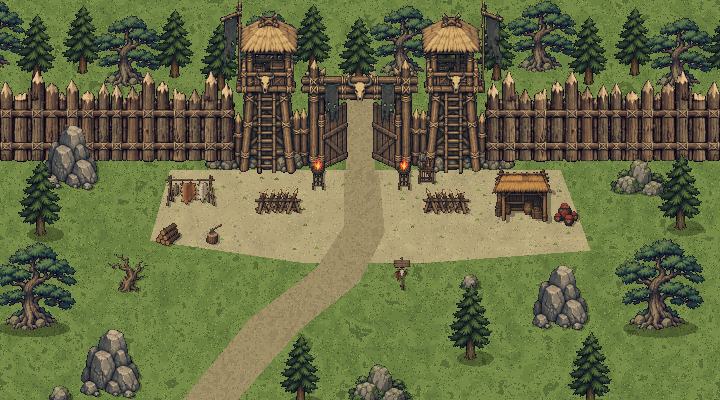
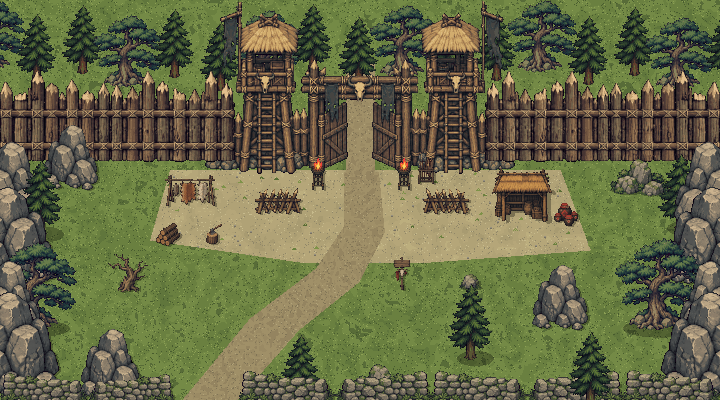
Align Black Wind Fortress terrain, blockers, and boss aftermath

Changed region(s): [[0.3056, 0.36, 1.0, 1.0], [0.0, 0.36, 0.2444, 1.0]]

diff --git a/js/story.js b/js/story.js
@@ -211,7 +211,7 @@ SC.ferry={name:'东津渡',bg:'m_ferry_v2',start:[1.65,25],startDir:'r',gw:60,gh
 SC.bgate={name:'黑风寨 · 寨门',bg:'m_bgate_v2',start:[15.9,28.05],startDir:'u',gw:54,gh:30,mapv:1,mapIn:[15.9,28.05],walk:[[1,11,52,29]],block:[],region:'bandit',tint:'rgba(0,10,30,.18)',
   migrate(x,y){return nearMap(x,y,[[12,24.5,15.9,28.05],[24,15,27.15,15.6],[8,21,11.6,22.4],[30,20,30,20],[20,17,22,17.5]])},
   // 寨门判定（01 §5.5 / §5.3 #16）：暗号+令牌 → 放行；只有令牌 → 放行；只有暗号 → "令牌呢？"硬闯；都没有 → 硬闯（守寨喽啰×2 + 寨犬×2）
-  npcs:[{id:'guard',name:'守寨喽啰',sp:'c_bandit',x:28.8,y:14.7,dir:'d',mark:()=>1,show:()=>!hasFlag('gate_pass'),async act(n){
+  npcs:[{id:'guard',name:'守寨喽啰',sp:'c_bandit',x:28.8,y:14.7,dir:'d',mark:()=>1,show:()=>!hasFlag('gate_pass')&&!hasFlag('chief_dead'),async act(n){
       await talk(n,'站住！什么人？！');
       const code=bfCode(),tok=!!S.bag.token,opts=[];
       if(code)opts.push('“风起云涌，自己人。”');if(tok)opts.push('亮出黑风令牌');opts.push('硬闯！');
@@ -222,7 +222,7 @@ SC.bgate={name:'黑风寨 · 寨门',bg:'m_bgate_v2',start:[15.9,28.05],startDir
       else if(o==='亮出黑风令牌'){await talk(n,'……浪里鳅那边的牌子？',code?'行，进去吧。':'暗号都不会对，令牌倒是真的。哼，进去吧，别乱走。');setFlag('gate_pass');return}
       const r=await battle({bg:'bg_bandit_gate',foes:[Object.assign(mk('bandit'),{name:'守寨喽啰',lv:5}),Object.assign(mk('bandit'),{name:'守寨喽啰',lv:5}),mk('gatedog'),mk('gatedog')]});if(r==='win')setFlag('gate_pass')}},
     digSpot('bgate1',10.8,22.5,async()=>{await narr('挖出了一坛埋着的好酒！');await giveItem('wine',2)})],
-  exits:[{r:[13,29,17,29],label:'下山 · 大地图',to:'map',dir:'d'},{r:[26,11,27,12],label:'进寨',to:'cave',at:[27,27],dir:'u',show:()=>hasFlag('gate_pass')}]};
+  exits:[{r:[13,29,17,29],label:'下山 · 大地图',to:'map',dir:'d'},{r:[26,11,27,12],label:'进寨',to:'cave',at:[27,27],dir:'u',show:()=>hasFlag('gate_pass')||hasFlag('chief_dead')}]};
 
 // v2（2026-09 S1，docs/design/02 §4.7）：54×30 格。北壁正中虎皮交椅高台（头目站位，台前空场作头目战区域），西聚饮长桌，东赃物 + 账桌 + 山川图，西南洞角巨蟒守箱，下方正中洞口
 SC.cave={name:'黑风寨 · 山洞',bg:'m_cave_v2',start:[27,27],startDir:'u',gw:54,gh:30,mapv:1,walk:[[1,9,52,29]],block:[],region:'bandit',tint:'rgba(0,0,0,.15)',
@@ -529,8 +529,8 @@ Object.assign(SC.bgate,{
   lights:[[954,500,220,'255,140,50',2],[1212,500,220,'255,140,50',2],[1566,610,110,'255,160,80',.6]],
   fx(){embers(954,490);embers(1212,490);smokeAt(954,470)},
   extras:[
-    {sp:'bandit',mode:'stand',x:36.6,y:17.4,dir:'l',show:()=>!hasFlag('gate_pass'),barks:['这火盆再不添柴就灭了。','大当家今晚又要喝酒。']},
-    {sp:'bandit',mode:'patrol',pts:[[18,15.8],[24,16.2],[18,15.8],[14,17]],show:()=>!hasFlag('gate_pass'),barks:['哪来的毛头小子？滚远点！','渡口那批货，油水不少。']}]});
+    {sp:'bandit',mode:'stand',x:36.6,y:17.4,dir:'l',show:()=>!hasFlag('gate_pass')&&!hasFlag('chief_dead'),barks:['这火盆再不添柴就灭了。','大当家今晚又要喝酒。']},
+    {sp:'bandit',mode:'patrol',pts:[[18,15.8],[24,16.2],[18,15.8],[14,17]],show:()=>!hasFlag('gate_pass')&&!hasFlag('chief_dead'),barks:['哪来的毛头小子？滚远点！','渡口那批货，油水不少。']}]});
 Object.assign(SC.cave,{
   // v2（02 §4.7）：交椅两侧火盆是主光源，洞口透进一点月光；喽啰在西边长桌喝酒、东边看着赃物
   dark:'rgba(0,0,6,.58)',tint:null,dust:true,dustC:'rgba(160,140,110,.45)',heroLight:170,
@@ -804,12 +804,12 @@ Object.assign(SC.gate,{gw:60,gh:36,bg:'m_gate_v2',propImg:'m_gate_v2_props',prop
 // </scene:gate>
 
 // <scene:bgate> 由 tools_scene/build_scene.py 生成，勿手改
[1 lines of base64/hex data omitted]
-  props:[[0,0,310,174,615,0,462],[311,0,400,92,-495,210,486],[0,175,400,92,1455,210,486],[247,268,14,32,933,474,570],[262,268,14,32,1191,474,570],[345,268,46,26,765,564,642],[392,268,46,26,1269,564,642],[277,268,16,31,1254,459,552],[0,268,60,53,1476,507,666],[439,268,24,23,1662,609,678],[294,268,50,31,495,525,618],[489,268,16,20,618,672,732],[464,268,24,23,468,669,738],[230,268,16,33,1182,771,870],[126,268,42,39,321,759,876],[579,175,44,76,54,480,708],[861,175,56,65,126,375,570],[492,175,86,88,-27,726,990],[759,175,60,69,240,987,1194],[624,175,44,76,1974,462,690],[169,268,60,37,1830,477,588],[401,175,90,92,1845,714,990],[918,175,56,65,1596,795,990],[669,175,44,76,1344,852,1080],[61,268,64,40,1044,1092,1212],[820,175,40,69,840,1005,1212],[533,268,22,16,1377,822,870],[714,175,44,76,1704,996,1224],[506,268,26,19,141,1155,1212]]});
[1 lines of base64/hex data omitted]
+  props:[[0,0,310,174,615,0,462],[0,175,400,92,-495,210,486],[401,175,400,92,1455,210,486],[405,357,14,32,933,474,570],[420,357,14,32,1191,474,570],[679,357,46,26,765,564,642],[726,357,46,26,1269,564,642],[435,357,16,31,1254,459,552],[692,268,60,53,1476,507,666],[773,357,24,23,1662,609,678],[452,357,50,31,495,525,618],[823,357,16,20,618,672,732],[798,357,24,23,468,669,738],[0,357,16,33,1182,771,870],[818,268,42,39,321,759,876],[296,268,44,76,54,480,708],[578,268,56,65,126,375,570],[893,175,86,88,-27,726,990],[476,268,60,69,240,987,1194],[341,268,44,76,1974,462,690],[861,268,60,37,1830,477,588],[802,175,90,92,1845,714,990],[635,268,56,65,1596,795,990],[386,268,44,76,1344,852,1080],[753,268,64,40,1044,1092,1212],[537,268,40,69,840,1005,1212],[867,357,22,16,1377,822,870],[431,268,44,76,1704,996,1224],[840,357,26,19,141,1155,1212],[0,268,76,88,-90,426,690],[497,0,86,99,-93,561,858],[154,268,70,81,-87,783,1026],[311,0,92,106,-96,876,1194],[77,268,76,88,2022,426,690],[584,0,86,99,1995,561,858],[225,268,70,81,2037,783,1026],[404,0,92,106,1980,876,1194],[503,357,88,31,0,1119,1212],[592,357,86,30,264,1122,1212],[17,357,96,33,717,1113,1212],[114,357,96,33,1005,1113,1212],[211,357,96,33,1293,1113,1212],[308,357,96,33,1581,1113,1212],[922,268,97,34,1869,1110,1212]]});
 // </scene:bgate>
 
 // <scene:cave> 由 tools_scene/build_scene.py 生成，勿手改
[2 lines of base64/hex data omitted]
   props:[[0,0,452,122,-180,6,372],[453,0,452,122,984,6,372],[906,0,80,82,960,276,522],[275,123,22,33,843,435,534],[298,123,22,33,1251,435,534],[457,123,55,27,288,549,630],[581,123,62,22,279,642,708],[424,123,32,28,120,510,594],[513,123,30,27,585,471,552],[84,123,44,38,1602,414,528],[41,123,42,40,1821,402,522],[375,123,48,29,1518,633,720],[338,123,36,30,1824,696,786],[721,123,11,15,678,855,900],[321,123,16,31,876,963,1056],[644,123,26,19,1317,981,1038],[698,123,22,18,681,474,528],[671,123,26,19,1371,453,510],[544,123,36,25,156,819,894],[0,123,40,41,54,693,816],[240,123,34,35,303,945,1050],[129,123,36,37,774,1029,1140],[166,123,36,37,1278,1029,1140],[203,123,36,37,1986,609,720]]});
 // </scene:cave>
 

diff --git a/js/scene.js b/js/scene.js
@@ -66,7 +66,7 @@ function placeFix(){if(!S||!cur)return;const id=Object.keys(SC).find(k=>SC[k]===
   if(best){player.x=best[0];player.y=best[1]}}
 function spawnWanderers(){placeFix();cur._npcs=npcsOf(cur);wanderers=[];bubbles.length=0;ambInit();
   const list=[...(cur.crowd||[]).map(([sp,c0,r0,c1,r1])=>({sp,mode:'wander',box:[c0,r0,c1,r1]})),...(cur.extras||[]).filter(e=>!e.show||e.show())];
-  for(const e of list){const w={sp:e.sp,mode:e.mode||'wander',box:e.box,pts:e.pts,pi:0,x:0,y:0,dir:e.dir||'d',face:e.dir,walk:0,moving:false,tx:null,ty:0,
+  for(const e of list){const w={sp:e.sp,source:e,mode:e.mode||'wander',box:e.box,pts:e.pts,pi:0,x:0,y:0,dir:e.dir||'d',face:e.dir,walk:0,moving:false,tx:null,ty:0,
       wait:rnd(300,2500),ph:Math.random()*9,barks:e.barks,bt:rnd(1500,6000),step:0,
       spd:e.mode==='run'?.13:e.mode==='patrol'?.05:.06};
     if(e.x!=null){w.x=e.x*TS;w.y=e.y*TS}
@@ -180,7 +180,10 @@ function updateCam(dt){
   let tx=camC.x,ty=camC.y;if(fx-tx>DZX)tx=fx-DZX;else if(tx-fx>DZX)tx=fx+DZX;if(fy-ty>DZY)ty=fy-DZY;else if(ty-fy>DZY)ty=fy+DZY;
   const k=1-Math.exp(-dt/170);camC.x+=(tx-camC.x)*k;camC.y+=(ty-camC.y)*k;
   cam.x=clamp(camC.x-VW/2,0,WW-VW);cam.y=clamp(camC.y-VH/2,0,WH-VH)}
-function updateWanderers(dt){for(const w of wanderers){
+function updateWanderers(dt){
+  // 剧情旗标可在当前场景内改变；只移除失效的路人，不重刷其他人的站位。
+  for(let i=wanderers.length-1;i>=0;i--){const e=wanderers[i].source;if(e&&e.show&&!e.show())wanderers.splice(i,1)}
+  for(const w of wanderers){
   updBark(w,dt);
   // 站桩者：主角靠近时转头看一眼，走开后恢复原朝向
   if(w.mode==='stand'){if(w.hx==null){w.hx=w.x;w.hy=w.y}const d=Math.hypot(w.x-player.x,w.y-player.y);w.dir=d<90?faceTo(player.x-w.x,player.y-w.y):(w.face||w.dir);w.moving=false;

diff --git a/tools_scene/build_scene.py b/tools_scene/build_scene.py
@@ -1010,8 +1010,17 @@ def bgate():
                                             ('sheet_bandit_5', 590, 408, 44, 'trunk'), ('sheet_mount_7', 60, 404, 26, 'rect:0,0.4,1,1'))):
         S.place(k, x, b, w_, cx=True, fp=fp_, shadow='tree' if fp_ == 'trunk' else 'small', key='edge%d' % i)
     S.tufts(260, (0, 170, S.w, 400))
-    # ── 可走区 ──
-    S.walk_poly([(150, 176), (580, 176), (610, 250), (600, 300), (520, 330), (420, 340), (330, 330), (260, 400), (160, 400), (100, 350), (96, 270), (120, 220)])
+    # 两侧陡石坡连续收边；足迹贴石体，避免开放草坡后从左右画面外走出。
+    for side, edge in (('w', 0), ('e', 720)):
+        for i, (base, width, inset) in enumerate(((230, 76, 8), (286, 86, 12), (342, 70, 6), (398, 92, 14))):
+            x = edge + inset if side == 'w' else edge - inset
+            S.place('sheet_bandit_6', x, base, width, cx=True, flip=(i + (side == 'e')) % 2 == 1,
+                    fp='rect:0,0.25,1,1', shadow='small', key='side_rock_%s%d' % (side, i))
+    # 南坡挡土石墙：把地图下沿的边界做成实物，山道留出缺口。
+    for i, (x, w_) in enumerate(((0, 88), (88, 86), (239, 96), (335, 96), (431, 96), (527, 96), (623, 97))):
+        S.place('sheet_mount_9', x, 404, w_, flip=bool(i % 2), fp='rect:0,0.25,1,1', shadow='small', key='south_wall%d' % i)
+    # ── 可走区：整片可见草地均开放，再由寨墙、拒马、树石及南坡实体占地扣除 ──
+    S.walk_rect(0, 176, 720, 400)
     S.force_rect(op[0] + 2, 150, op[1] - 2, 178)  # 寨门门洞（出口）
     S.block_rect(0, 392, 174, 400); S.block_rect(239, 392, 720, 400)   # 下沿只留山道出口
     S.exits = [(26, 11, 27, 12), (13, 29, 17, 29)]
@@ -1065,7 +1074,7 @@ def cave():
     S.place('sheet_cave_9', 444, 380, 36, cx=True, fp='rect:0.1,0.5,0.9,1', shadow='small', key='stal_ge', flip=True)
     S.place('sheet_cave_9', 680, 240, 36, cx=True, fp='rect:0.1,0.5,0.9,1', shadow='small', key='stal_e')
     # ── 可走区 ──
-    S.walk_poly([(44, 126), (676, 126), (694, 200), (682, 286), (632, 344), (428, 366), (410, 400), (310, 400), (292, 366), (100, 346), (36, 296), (26, 200)])
+    S.walk_poly(floor)  # 岩地边界即岩壁脚；物件占地在 compose() 扣除
     S.block_rect(0, 392, 334, 400); S.block_rect(386, 392, 720, 400)   # 下沿只留洞口
     S.exits = [(25, 29, 28, 29)]
     for n, (x, y) in dict(arrive=(360, 360), chief=(360, 190), snake=(116, 304), ledger=(530, 248), hidemap=(626, 268), feast_w=(96, 244), feast_e=(156, 244), loot=(540, 196)).items(): S.anchor(n, x, y)

diff --git a/tools_scene/ground_contract.py b/tools_scene/ground_contract.py
@@ -1,0 +1,25 @@
+"""Black Wind Fortress: visible bare ground must agree with the walk mask.
+
+Run after changing map layout: python3 tools_scene/ground_contract.py
+"""
+import numpy as np
+
+from build_scene import bgate, cave
+
+
+def check(factory, material, top):
+    scene = factory()
+    scene.compose()
+    occupied = np.zeros((scene.h, scene.w), dtype=bool)
+    for item in scene.items:
+        occupied |= item['fp']
+    yy = np.arange(scene.h)[:, None]
+    bare = (scene.mat == material) & ~occupied & (yy >= top) & (yy < 392)
+    blocked = bare & ~scene.walkmask
+    print(f'{scene.id}: bare={bare.sum()} blocked_without_object={blocked.sum()}')
+    assert not blocked.any(), f'{scene.id}: bare ground blocked without a visible object'
+
+
+if __name__ == '__main__':
+    check(bgate, 4, 176)  # 寨门前草坡
+    check(cave, 7, 118)   # 洞内岩地

diff --git a/docs/design/black-wind-fortress.md b/docs/design/black-wind-fortress.md
@@ -1,0 +1,42 @@
+# 黑风寨：空间、阻挡物与战后状态
+
+状态：2026-09-30 返工基准。适用 `bgate` 寨门与 `cave` 聚义洞；世界观和案件位置仍以[襄阳章节](xiangyang-chapter.md)为准，素材尺度遵循[襄阳美术规范](xiangyang-art.md)。
+
+## 现状问题与设计结论
+
+寨门前画了整幅草地，却用独立的 `walk_poly` 只开放中央区域。实测前场 y=180–390 的裸草地，扣除所有物件占地后仍有 **61,169 / 102,816（59.5%）** 不可走；`(550,340)`、`(100,220)` 是无遮拦草地却被挡，邻近同色草地反而能走。洞内裸岩地有 **10,361 / 145,983（7.1%）** 同类误差。旧审计的单连通区、`issues=0` 未检查视觉地面与碰撞的一致性，因此旧“通过”结论撤回。
+
+寨门当前具备寨墙、门楼、火盆和拒马，但**前场边界未先规划用途与实物**：大片草地只是颜色，玩家无法从画面判断通行权限。这一步没有完整遵循“先区域功能和阻挡语义，再摆单体，再从占地生成碰撞，最后同屏验收”的开发原则。不能靠画深草、暗色土或一条色带作为不可走理由。
+
+## 区域用途与通行合同
+
+| 区域 | 画面用途与可见实体 | 行走规则 |
+| --- | --- | --- |
+| 寨门与木墙 | 望楼、木栅、关卡门扇形成北部实体；门洞是上山转场 | 墙、楼和拒马足迹挡人；门洞出口可达 |
+| 门前夯土场 | 盘查、守夜、酒棚和兽皮架；南部接山道 | 裸露夯土及物件间净空可走，火盆、棚架和拒马按脚点挡人 |
+| 西、东草坡 | 供玩家绕行、探酒和观察地形；低草只是材质 | 看得见的裸草坡全部可走，树干、石块、陡坡/栅栏实体单独挡人 |
+| 外缘林石与南坡 | 左右以成组松林、岩石和陡坎收边；南部只留山道出口 | 不可走边必须贴连续可辨的实体外缘，不能在草地中画隐形多边形；下山路保持通畅 |
+| 洞内聚义厅 | 中央战场、虎皮交椅、聚饮桌、赃物和蛇箱分区 | 可见岩地除家具、柱脚、石笋外可走；阴暗深处以真实洞壁、坍石或断崖轮廓封边 |
+
+每段不可走的边都需能指认具体挡路物：木墙、拒马、树干、密林石堆、洞壁、石笋或断崖。视觉上连续的草坪或岩地不能在中间突然失去行走权限。世界边缘可以用有高度与投影的林石/岩壁收口，山道和洞口出口处留清晰缺口。不要用大量随机石头把通路做成迷宫；物件服务于关卡、营地与山势。
+
+## Boss 败后状态
+
+独眼阎罗被击败并设置 `chief_dead` 后，洞内四名普通喽啰应在战斗遮罩结束后的当前场景立刻退场；返回洞内、读档后也不再出现。寨门仍可进出，但守寨盘查者与巡哨撤离，营地的墙、棚、账册、箱笼等物件保留，表现“据点已败、现场可搜查”。若战斗失败或未击败 Boss，喽啰维持原状态。剧情以 `chief_dead` 为唯一持久依据，不另建容易不同步的临时变量。
+
+## 生产与验收
+
+1. 先按上表画出可走草坡/岩地及收边实体，再修改地图生成器；`walk` 应覆盖看起来能站的地面，实体足迹从可走区扣除。地图、素材图集、碰撞 mask 同一次构建生成。
+2. 对寨门和洞内生成无 UI 全景、正常 1280×720 游戏镜头与碰撞叠图。逐段检查每条禁行边在同屏画面有可见物；记录草地/岩地未被实体占据却不可走的面积，目标为 **0**，地图外缘保护带和可见断崖后方另列。
+3. 实走西草坡挖酒点、东草坡、门前绕行、山道、洞内两侧岩地及洞口；不穿墙、不堵主线。Boss 胜利当场、结算返回、重进和读档四种状态实测喽啰；失败仍在场。
+4. 新增素材先对照现有黑风寨人物、门楼、洞壁和地面截图审稿，记录来源、用途、尺寸、占地与退稿原因；不能用统一调色掩盖画风或尺度不符。
+
+## 本轮实现记录
+
+`bgate` 以整片草坡为可走底层，南侧沿山道两边使用挡土石墙、左右用连续陡石坡收边；木寨墙、拒马、树石等仍以物件占地挡人。没有另画一条只靠深浅色区分的禁行线。南墙留山道缺口，左右岩坡占住地图侧沿。石坡调用现有 `sheet_bandit_6`，四段分别改变宽度、嵌入位置和朝向；南墙复用 `sheet_mount_9`，交替镜像。洞内可走多边形与裸岩地轮廓一致，外侧仍由岩壁隔开。
+
+新建 `tools_scene/ground_contract.py`，逐源像素比较裸草/裸岩地、实体占地和最终可走 mask：寨门裸草 76,646 像素、洞内裸岩 145,097 像素，**无实物却不可走均为 0**。`tools_scene/audit.cjs` 对寨门/山洞均为单连通、`issues=0`。实走左草坡 `(130,250)→(80,250)`、右草坡 `(570,280)→(620,280)` 和下山路 `(200,350)→(212,380)`，到点误差约 5 像素；岩坡 `(20,280)` 与 `(700,280)` 则不能站，角色停在可见岩石边。以上坐标是 720×400 场景源图坐标。
+
+`wanderers` 保留各自来源配置，在场景每帧依据 `show()` 撤下失效的喽啰，不重新随机摆放其他人。寨主死亡旗标同时令洞内四名喽啰、寨门盘查者和巡哨退场，寨门出口继续开放。独立验收在真实战斗 UI 使 Boss 败北：胜利当场 `chief_dead=true`、洞内喽啰 0；章节结算后选择“继续游历”、返回寨门、重进洞内，以及载入已胜利存档，喽啰均为 0，守卫不再出现、洞口仍可进。战败分支 `chief_dead=false`，四名喽啰和 Boss 仍在。浏览器无页面错误。
+
+正常 1280×720 游戏视口复看左右岩坡、南墙的高度、投影和草地接边；独立验收判定本轮阻挡语义和重复拼贴已达标。南墙仍能辨出模块接缝，列为后续美术细节精修，不将其误报为本轮空气墙。验收截图在本地 `/tmp/accept-blackwind-final-view-{west,east,south}.png`，地图审计叠图在 `/tmp/blackwind-audit-final2/audit_bgate.png`。
